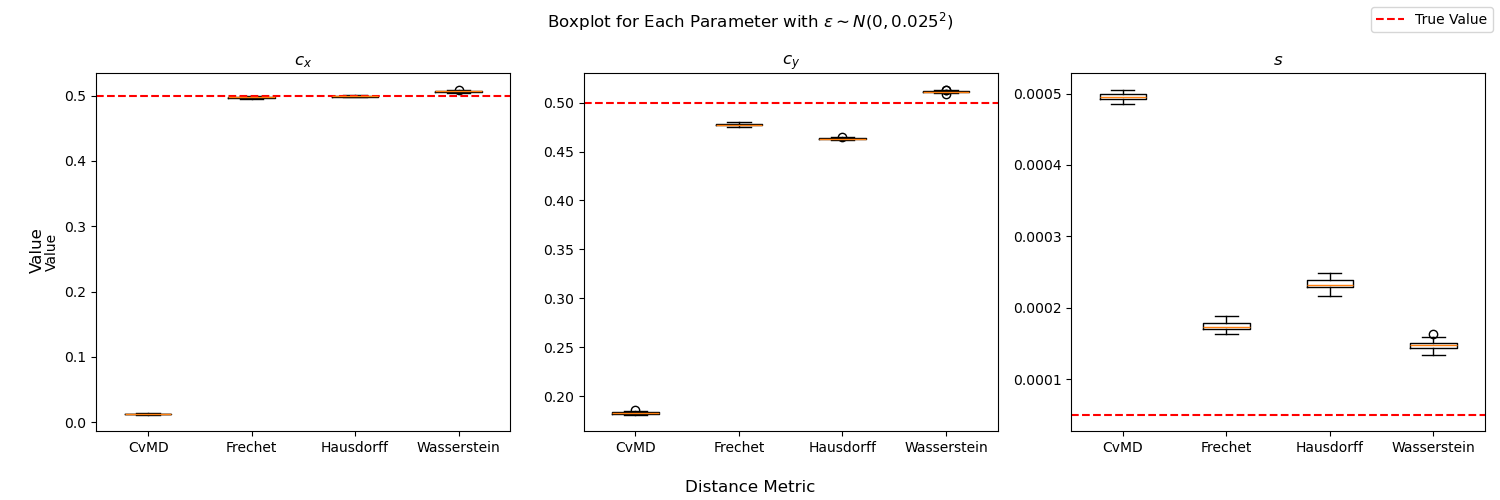
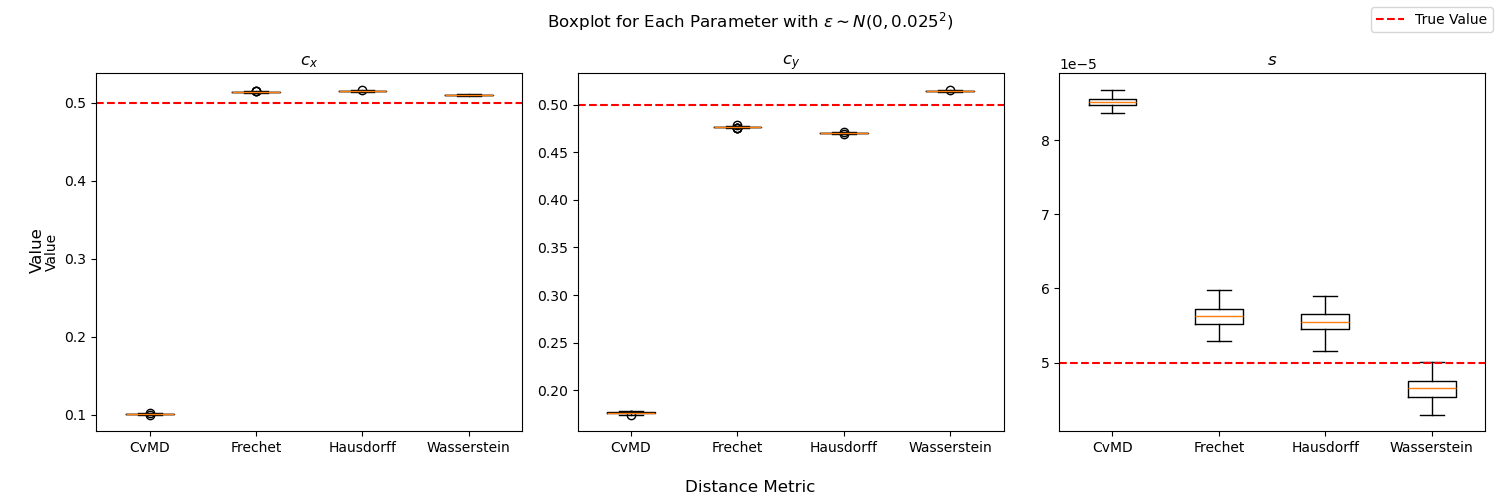
added presentation plots and fixed hausdorff.

diff --git a/lotka_volterra/run_posterior_dist.py b/lotka_volterra/run_posterior_dist.py
@@ -1,56 +1,3 @@
-# import os
-# import numpy as np
-# import matplotlib.pyplot as plt
-# import seaborn as sns
-# from common.abc_posterior import abc_posterior_data
-
-# RUN_PATH = "./lotka_volterra/runs"
-# PLOT_PATH = "./lotka_volterra/plots"
-# DISTANCES = ["Wasserstein Distance", "Energy Distance", "Maximum Mean Discrepancy", "Cramer-von Mises Distance", "Kullback-Leibler Divergence"]
-# NPARAM = 2
-
-# models = os.listdir(RUN_PATH)
-
-# for model in models:
-#     fig, ax = plt.subplots(2, 1, figsize=(10, 5))
-#     run_model_path = os.path.join(RUN_PATH, model)
-#     run = os.path.join(RUN_PATH, model, "run1.npy")
-#     distances = np.load(run)
-
-#     for i in range(NPARAM, distances.shape[1]):
-#         temp_dist = distances[:,i]
-#         threshold_data = abc_posterior_data(NPARAM, distances, 0.001, DISTANCES[i-2])
-#         threshold_data = np.where(threshold_data != np.inf, threshold_data, np.nan)
-#         alpha, beta = threshold_data[:,0], threshold_data[:,1]
-#         print(DISTANCES[i-2], threshold_data.shape)
-#         sns.histplot(ax=ax[0], data=alpha, element="step", fill=True, label=DISTANCES[i-2], binwidth=0.1)
-#         sns.histplot(ax=ax[1], data=beta, element="step", fill=True, label=DISTANCES[i-2], binwidth=0.1)
-#         ax[0].axvline(1, c='r')
-#         ax[1].axvline(1, c='r')
-#         ax[0].set_xlabel(r"$\alpha$")
-#         ax[1].set_xlabel(r"$\beta$")
-#         ax[0].set_ylabel("")
-#         ax[1].set_ylabel("")
-    
-#     model_name = model.split("_")
-#     model_noise = model_name[0][1:len(model_name[0])]
-#     if len(model_name) == 3:
-#         model_smoothing = "No Smoothing"
-#     else:
-#         model_smoothing = "With Smoothing"
-    
-#     if model_noise == "linear":
-#         model_noise = "t"
-#     plot_title = f"Posterior Distribution for $\epsilon\sim N(0, {model_noise}^2)$ {model_smoothing}"
-#     fig.suptitle(plot_title)
-#     fig.supylabel("Density")
-#     fig.tight_layout()
-#     plt.legend()
-
-#     model_path = os.path.join(PLOT_PATH, model)
-#     save_path = os.path.join(model_path, "run_posterior_distribution.png")
-#     plt.savefig(save_path)
-
 import os
 import numpy as np
 import matplotlib.pyplot as plt
@@ -63,45 +10,28 @@ DISTANCES = ["Wasserstein Distance", "Energy Distance", "Maximum Mean Discrepanc
 NPARAM = 2
 
 models = os.listdir(RUN_PATH)
-n_models = len(models)
 
-# Determine the number of rows and columns (max columns = 3)
-max_columns = 3
-n_rows = int(np.ceil(n_models / max_columns)) * 2  # Two rows (alpha and beta) per model group
-
-# Set up the figure
-fig, axes = plt.subplots(n_rows, max_columns, figsize=(20, 2 * n_rows), sharex=True, sharey=False)
-
-# Flatten the axes array for easier indexing
-axes = axes.reshape(n_rows, max_columns)
-
-# Iterate through models and plot
-for idx, model in enumerate(models):
-    col = idx % max_columns
-    row = (idx // max_columns) * 2  # Two rows per model (alpha, beta)
-    
-    ax_alpha = axes[row, col]       # Top row for alpha
-    ax_beta = axes[row + 1, col]    # Bottom row for beta
-
+for model in models:
+    fig, ax = plt.subplots(2, 1, figsize=(10, 5))
     run_model_path = os.path.join(RUN_PATH, model)
     run = os.path.join(RUN_PATH, model, "run1.npy")
     distances = np.load(run)
 
     for i in range(NPARAM, distances.shape[1]):
-        temp_dist = distances[:, i]
-        threshold_data = abc_posterior_data(NPARAM, distances, 0.001, DISTANCES[i - 2])
+        temp_dist = distances[:,i]
+        threshold_data = abc_posterior_data(NPARAM, distances, 0.001, DISTANCES[i-2])
         threshold_data = np.where(threshold_data != np.inf, threshold_data, np.nan)
-        alpha, beta = threshold_data[:, 0], threshold_data[:, 1]
-        
-        # Plot alpha and beta
-        sns.histplot(ax=ax_alpha, data=alpha, element="step", fill=True, label=DISTANCES[i - 2], binwidth=0.1, alpha=0.3)
-        sns.histplot(ax=ax_beta, data=beta, element="step", fill=True, label=DISTANCES[i - 2], binwidth=0.1, alpha=0.3)
-        
-        # Add vertical lines
-        ax_alpha.axvline(1, c='k')
-        ax_beta.axvline(1, c='k')
-        
-    # Set titles and labels for individual plots
+        alpha, beta = threshold_data[:,0], threshold_data[:,1]
+        print(DISTANCES[i-2], threshold_data.shape)
+        sns.histplot(ax=ax[0], data=alpha, stat="probability", element="step", fill=True, label=DISTANCES[i-2], binwidth=0.1)
+        sns.histplot(ax=ax[1], data=beta, stat="probability", element="step", fill=True, label=DISTANCES[i-2], binwidth=0.1)
+        ax[0].axvline(1, c='r')
+        ax[1].axvline(1, c='r')
+        ax[0].set_xlabel(r"$\alpha$")
+        ax[1].set_xlabel(r"$\beta$")
+        ax[0].set_ylabel("")
+        ax[1].set_ylabel("")
+    
     model_name = model.split("_")
     model_noise = model_name[0][1:len(model_name[0])]
     if len(model_name) == 3:
@@ -111,27 +41,97 @@ for idx, model in enumerate(models):
     
     if model_noise == "linear":
         model_noise = "t"
-    # plot_title = f"Posterior Distribution for $\epsilon\sim N(0, {model_noise}^2)$ {model_smoothing}"
-    plot_title = f"$\epsilon\sim N(0, {model_noise}^2)$ {model_smoothing}"
-    ax_alpha.set_title(plot_title)
-    ax_alpha.set_ylabel("Density ($\\alpha$)")
-    ax_beta.set_ylabel("Density ($\\beta$)")
-    ax_beta.set_xlabel("Parameter Value")
+    plot_title = f"Posterior Distribution for $\epsilon\sim N(0, {model_noise}^2)$ {model_smoothing}"
+    fig.suptitle(plot_title)
+    fig.supylabel("Probability")
+    fig.tight_layout()
+    plt.legend()
 
-# Remove unused subplots
-for r in range(n_rows):
-    for c in range(max_columns):
-        if r * max_columns + c >= n_models * 2:  # Beyond total models
-            fig.delaxes(axes[r, c])
+    model_path = os.path.join(PLOT_PATH, model)
+    save_path = os.path.join(model_path, "run_posterior_distribution.png")
+    plt.savefig(save_path)
 
-# Add a single legend for the entire figure
-handles, labels = axes[0, 0].get_legend_handles_labels()
-fig.legend(handles, labels, loc='center left', bbox_to_anchor=(0.85, 0.5), title="Distances")
+# import os
+# import numpy as np
+# import matplotlib.pyplot as plt
+# import seaborn as sns
+# from common.abc_posterior import abc_posterior_data
 
-# Adjust layout to leave space for the legend
-fig.suptitle("Posterior Distribution of $\\alpha$ and $\\beta$ for All Models", fontsize=16)
-fig.tight_layout(rect=[0, 0, 0.85, 1])  # Leave space on the right for the legend
-save_path = os.path.join(PLOT_PATH, "combined_posterior_distribution.png")
-plt.savefig(save_path)
-plt.close(fig)
+# RUN_PATH = "./lotka_volterra/runs"
+# PLOT_PATH = "./lotka_volterra/plots"
+# DISTANCES = ["Wasserstein Distance", "Energy Distance", "Maximum Mean Discrepancy", "Cramer-von Mises Distance", "Kullback-Leibler Divergence"]
+# NPARAM = 2
+
+# models = os.listdir(RUN_PATH)
+# n_models = len(models)
+
+# # Determine the number of rows and columns (max columns = 3)
+# max_columns = 3
+# n_rows = int(np.ceil(n_models / max_columns)) * 2  # Two rows (alpha and beta) per model group
+
+# # Set up the figure
+# fig, axes = plt.subplots(n_rows, max_columns, figsize=(20, 2 * n_rows), sharex=True, sharey=False)
+
+# # Flatten the axes array for easier indexing
+# axes = axes.reshape(n_rows, max_columns)
+
+# # Iterate through models and plot
+# for idx, model in enumerate(models):
+#     col = idx % max_columns
+#     row = (idx // max_columns) * 2  # Two rows per model (alpha, beta)
+    
+#     ax_alpha = axes[row, col]       # Top row for alpha
+#     ax_beta = axes[row + 1, col]    # Bottom row for beta
+
+#     run_model_path = os.path.join(RUN_PATH, model)
+#     run = os.path.join(RUN_PATH, model, "run1.npy")
+#     distances = np.load(run)
+
+#     for i in range(NPARAM, distances.shape[1]):
+#         temp_dist = distances[:, i]
+#         threshold_data = abc_posterior_data(NPARAM, distances, 0.001, DISTANCES[i - 2])
+#         threshold_data = np.where(threshold_data != np.inf, threshold_data, np.nan)
+#         alpha, beta = threshold_data[:, 0], threshold_data[:, 1]
+        
+#         # Plot alpha and beta
+#         sns.histplot(ax=ax_alpha, data=alpha, stat="probability", element="step", fill=True, label=DISTANCES[i - 2], binwidth=0.1, alpha=0.3)
+#         sns.histplot(ax=ax_beta, data=beta, stat="probability", element="step", fill=True, label=DISTANCES[i - 2], binwidth=0.1, alpha=0.3)
+        
+#         # Add vertical lines
+#         ax_alpha.axvline(1, c='k')
+#         ax_beta.axvline(1, c='k')
+        
+#     # Set titles and labels for individual plots
+#     model_name = model.split("_")
+#     model_noise = model_name[0][1:len(model_name[0])]
+#     if len(model_name) == 3:
+#         model_smoothing = "No Smoothing"
+#     else:
+#         model_smoothing = "With Smoothing"
+    
+#     if model_noise == "linear":
+#         model_noise = "t"
+#     # plot_title = f"Posterior Distribution for $\epsilon\sim N(0, {model_noise}^2)$ {model_smoothing}"
+#     plot_title = f"$\epsilon\sim N(0, {model_noise}^2)$ {model_smoothing}"
+#     ax_alpha.set_title(plot_title)
+#     ax_alpha.set_ylabel("Density ($\\alpha$)")
+#     ax_beta.set_ylabel("Density ($\\beta$)")
+#     ax_beta.set_xlabel("Parameter Value")
+
+# # Remove unused subplots
+# for r in range(n_rows):
+#     for c in range(max_columns):
+#         if r * max_columns + c >= n_models * 2:  # Beyond total models
+#             fig.delaxes(axes[r, c])
+
+# # Add a single legend for the entire figure
+# handles, labels = axes[0, 0].get_legend_handles_labels()
+# fig.legend(handles, labels, loc='center left', bbox_to_anchor=(0.85, 0.5), title="Distances")
+
+# # Adjust layout to leave space for the legend
+# fig.suptitle("Posterior Distribution of $\\alpha$ and $\\beta$ for All Models", fontsize=16)
+# fig.tight_layout(rect=[0, 0, 0.85, 1])  # Leave space on the right for the legend
+# save_path = os.path.join(PLOT_PATH, "combined_posterior_distribution.png")
+# plt.savefig(save_path)
+# plt.close(fig)
 

diff --git a/gaussian_plume/abc_simulation.py b/gaussian_plume/abc_simulation.py
@@ -62,7 +62,7 @@ def compute_frechet_distance(sim, obs):
     return np.mean([frechet_distance(sim[i, :, :], obs[i, :, :]) for i in range(sim.shape[0])])
 
 def compute_directed_hausdorff(sim, obs):
-    return np.mean([directed_hausdorff(sim[i, :, :], obs[i, :, :])[0] for i in range(sim.shape[0])])
+    return np.mean([max(directed_hausdorff(sim[i, :, :], obs[i, :, :])[0], directed_hausdorff(obs[i, :, :], sim[i, :, :])[0]) for i in range(sim.shape[0])])
 
 def abc_simulation(observed, n=1000): # Performs Approximate Bayesian Computation (ABC) simulation. Returns results and timing information
     # To store overall results and all the sim times

diff --git a/lotka_volterra/run_solution_plot.py b/lotka_volterra/run_solution_plot.py
@@ -76,7 +76,7 @@ if __name__ == "__main__":
                 ax[i].plot(t, sol_lower[:, 1], label="Lower Bound Predator", **styles["lower_pred"])
 
                 ax[i].set_title(metric, fontsize=10)
-                ax[i].set_ylim(-7.5, 14)
+                ax[i].set_ylim(0, 6)
 
                 if i == 0:
                     ax[i].legend(fontsize=8)
